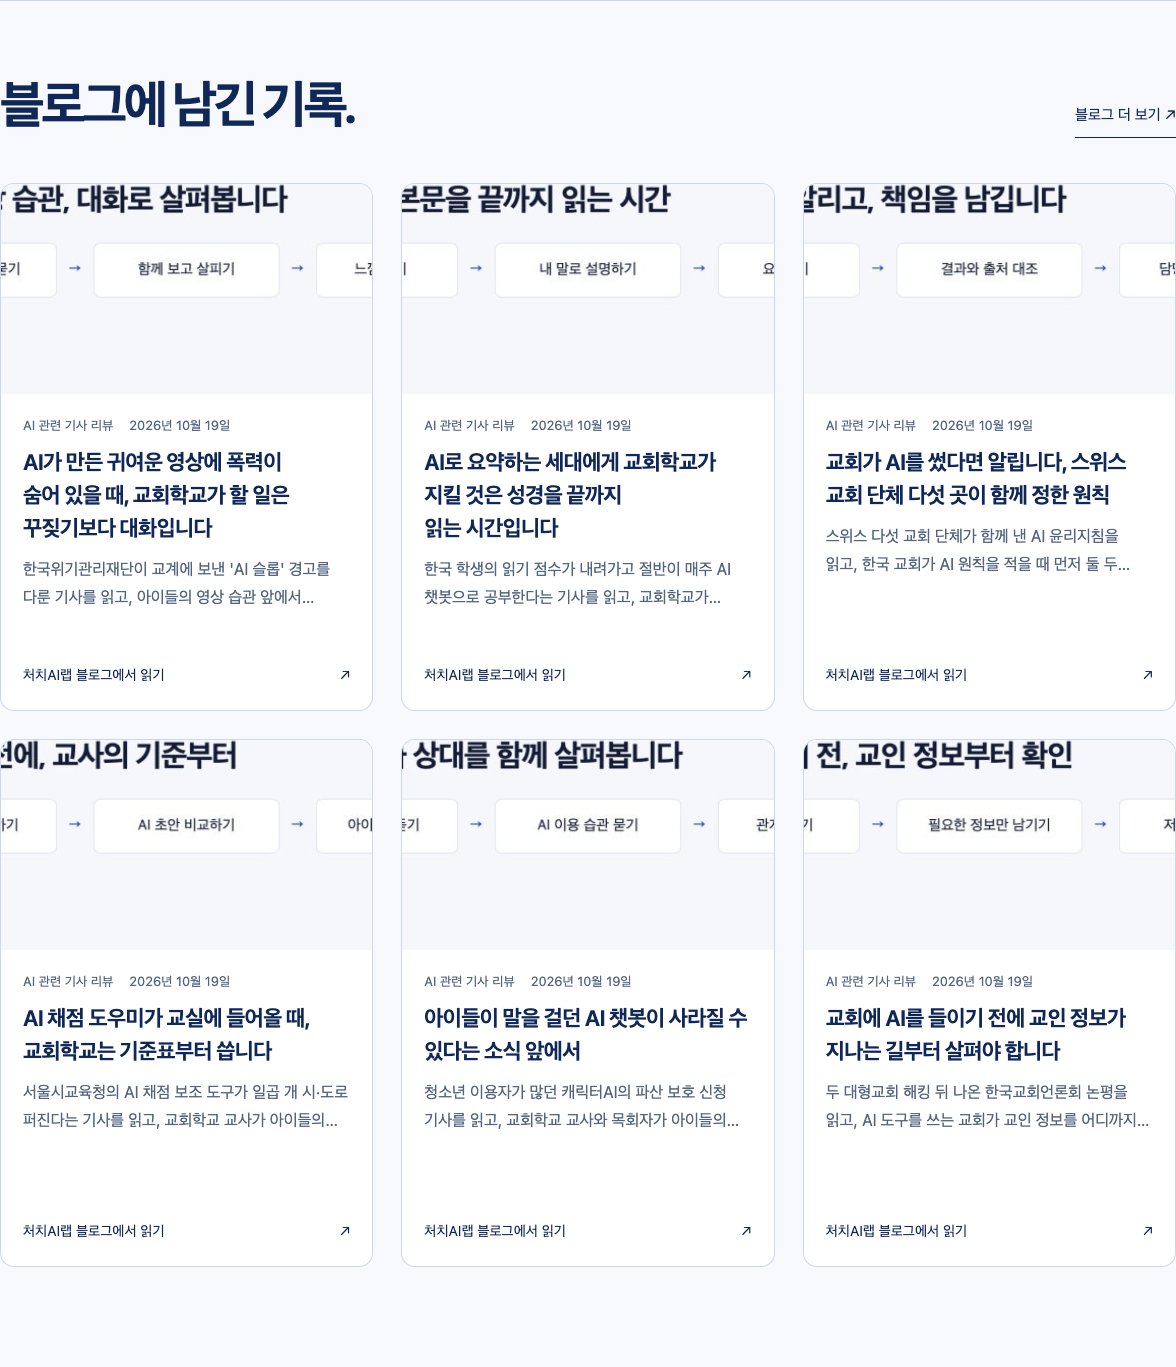
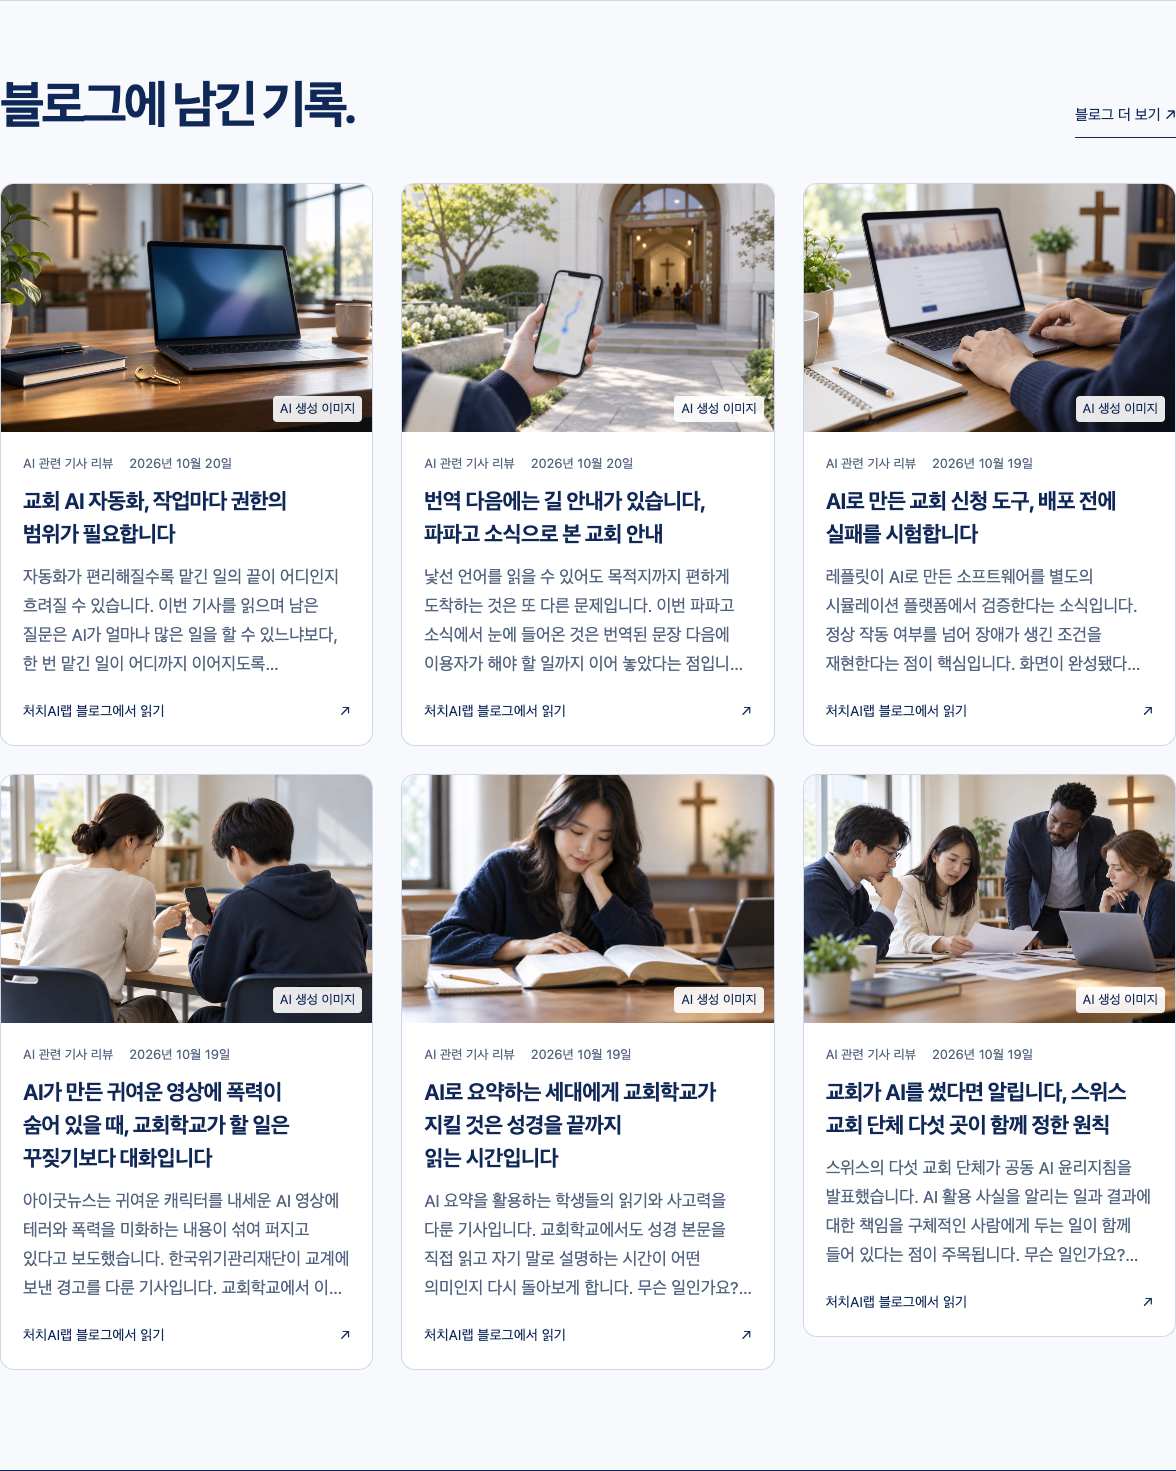
Compact recent post cards and add curated photorealistic covers

diff --git a/src/assets/motion-demo.css b/src/assets/motion-demo.css
@@ -86,18 +86,19 @@
 .motion-demo .studio-intro .title-line>span{animation:none!important;transform:none!important}
 
 /* Naver feed: image-led posts retain the shared Studio palette and type. */
-.blog-grid{display:grid;grid-template-columns:repeat(3,minmax(0,1fr));gap:28px}
-.blog-card{aspect-ratio:210 / 297;container-type:inline-size;min-width:0;background:var(--paper);border:1px solid var(--line);border-radius:14px;overflow:hidden}
-.blog-card>a{display:grid;grid-template-rows:minmax(0,2fr) minmax(0,3fr);height:100%;min-height:0;color:var(--ink);text-decoration:none}
+.blog-grid{display:grid;grid-template-columns:repeat(3,minmax(0,1fr));align-items:start;gap:28px}
+.blog-card{container-type:inline-size;min-width:0;background:var(--paper);border:1px solid var(--line);border-radius:14px;overflow:hidden}
+.blog-card>a{display:block;color:var(--ink);text-decoration:none}
 .blog-card>a:focus-visible{outline:3px solid var(--action);outline-offset:-4px}
-.blog-cover{min-height:0;background:var(--mint);overflow:hidden}
+.blog-cover{aspect-ratio:3 / 2;background:var(--mint);overflow:hidden;position:relative}
 .blog-cover img{display:block;width:100%;height:100%;object-fit:cover;object-position:center;transition:transform .25s ease-out}
 .blog-card>a:hover .blog-cover img{transform:scale(1.025)}
-.blog-card-copy{min-height:0;min-width:0;padding:22px;display:grid;grid-template-rows:auto auto minmax(0,1fr) auto;gap:10px}
+.blog-card-copy{min-width:0;padding:22px;display:grid;gap:12px}
 .blog-meta{display:flex;flex-wrap:wrap;gap:6px 16px;font-size:13px;color:var(--muted);line-height:1.5}
-.motion-demo .blog-card h3{font-size:22px;line-height:1.5;letter-spacing:-.025em;margin:0;word-break:keep-all;overflow-wrap:break-word;text-wrap:pretty;display:-webkit-box;-webkit-box-orient:vertical;-webkit-line-clamp:3;overflow:hidden}
-.blog-card-copy p{align-self:start;display:-webkit-box;-webkit-box-orient:vertical;-webkit-line-clamp:2;overflow:hidden;min-height:0;font-size:16px;line-height:1.75;color:var(--muted);margin:0;word-break:keep-all;overflow-wrap:break-word;text-wrap:pretty}
-.blog-read{grid-row:4;display:flex;justify-content:space-between;gap:20px;margin-top:0;padding-top:0;font-size:14px}
+.motion-demo .blog-card h3{font-size:22px;line-height:1.5;letter-spacing:-.025em;margin:0;word-break:keep-all;overflow-wrap:break-word;text-wrap:pretty}
+.blog-card-copy p{display:-webkit-box;-webkit-box-orient:vertical;-webkit-line-clamp:4;overflow:hidden;font-size:17px;line-height:1.7;color:var(--muted);margin:0;word-break:keep-all;overflow-wrap:break-word;text-wrap:pretty}
+.blog-read{display:flex;justify-content:space-between;gap:20px;margin-top:8px;font-size:14px}
+.blog-image-label{position:absolute;right:10px;bottom:10px;padding:3px 7px;border-radius:4px;background:rgba(255,255,255,.9);color:var(--ink);font-size:13px;line-height:1.5}
 @media(max-width:1000px){.blog-grid{grid-template-columns:repeat(2,minmax(0,1fr));gap:22px}}
 @media(max-width:600px){.blog-grid{grid-template-columns:minmax(0,1fr);gap:28px}.blog-card-copy{padding:20px}.studio-posts .section-intro{align-items:start;gap:16px;flex-direction:column}}
 @media(prefers-reduced-motion:reduce){.blog-cover img{transition:none}.blog-card>a:hover .blog-cover img{transform:none}}
@@ -105,4 +106,4 @@
 /* Grid children may shrink when the reader enlarges Korean text. */
 .learning-steps>li{min-width:0;overflow-wrap:break-word}
 
-@container(max-width:320px){.blog-card-copy{padding:18px;gap:8px}.blog-card-copy p{display:none}}
+@container(max-width:320px){.blog-card-copy{padding:18px;gap:10px}}

diff --git a/scripts/sync-naver-blog.py b/scripts/sync-naver-blog.py
@@ -17,6 +17,7 @@ from urllib.request import Request, urlopen
 
 ROOT = Path(__file__).resolve().parents[1]
 OUTPUT = ROOT / 'src/_data/blogFeed.json'
+COVERS = ROOT / 'src/_data/blogCovers.json'
 
 class Content(HTMLParser):
     def __init__(self):
@@ -58,6 +59,7 @@ def cache_image(url, post):
     return '/media/blog-covers/'+name
 
 def main():
+    overrides = json.loads(COVERS.read_text()) if COVERS.exists() else {}
     source = Path(sys.argv[1]).read_bytes() if len(sys.argv)>1 else urlopen(Request('https://rss.blog.naver.com/church_ai_lab.xml', headers={'User-Agent':'ChurchAILab-PublicFeed/1.0'}), timeout=25).read()
     root = ET.fromstring(source)
     posts = []
@@ -72,10 +74,17 @@ def main():
         if not title: continue
         parser = Content(); parser.feed(html.unescape(item.findtext('description', '')))
         excerpt = re.sub(r'\s+', ' ', ''.join(parser.text)).strip().rstrip('.')
-        excerpt = excerpt[:110].rstrip() + ('…' if len(excerpt)>110 else '')
+        # Some older posts retain a plain source URL above their native link card.
+        excerpt = re.sub(r'https?://[^\s]+', '', excerpt).strip()
+        excerpt = excerpt[:240].rstrip() + ('…' if len(excerpt)>240 else '')
         post = dict(id=match[1],title=title,url=url,date=date.isoformat(),display_date=date.strftime('%Y-%m-%d'),category=' '.join(item.findtext('category','블로그').split()),excerpt=excerpt,image_alt=title+' 대표 이미지')
         remote_image = next((safe_image(x) for x in parser.images if safe_image(x)), None)
-        if remote_image:
+        curated = overrides.get(post['id'])
+        if curated and (ROOT / 'src' / curated['image'].lstrip('/')).is_file():
+            post['image'] = curated['image']
+            post['image_alt'] = curated['alt']
+            post['image_label'] = curated.get('label', '')
+        elif remote_image:
             try: post['image'] = cache_image(remote_image, post)
             except Exception as error:
                 print(f'Image unavailable for {post["id"]}; using topic cover: {error}', file=sys.stderr)

diff --git a/docs/blog-automation/card-photography.md b/docs/blog-automation/card-photography.md
@@ -1,0 +1,23 @@
+# 최근 글 카드 표지와 레이아웃 — 2026-10-20
+
+사용자 요청으로 A4 고정 높이를 해제하고 제목 전체, 요약 최대 4줄, 자연 높이 카드를 적용했습니다. 작은 화면에서도 요약을 숨기지 않습니다. 이미지 영역은 3:2이며 이미지 원본도 3:2입니다.
+
+`src/_data/blogCovers.json`은 글 ID별 직접 제작 표지의 원본입니다. RSS 동기화는 이 파일의 유효한 로컬 표지를 우선하며 자동 다운로드로 덮어쓰지 않습니다. 매칭되지 않는 글은 기존 RSS 대표 이미지를 사용합니다. 기사 사진을 그대로 재사용하지 않고 이번 6장은 모두 built-in image_gen으로 제작했습니다. 실제 사건·교회·인물 사진이 아니며 카드에는 ‘AI 생성 이미지’를 표시합니다. 원본 PNG는 Codex generated_images에 보관하고 사이트용 JPEG는 src/media/blog-covers/에 저장했습니다.
+
+## 생성 프롬프트
+
+첫 이미지:
+
+> Generate a photorealistic editorial photograph for a Korean church AI article card about limiting AI agent permissions. Wide landscape 3:2 composition, no text, no letters, no logos. A quiet modern church administration desk with a laptop showing only abstract unfocused shapes, a notebook, and a small physical key beside the laptop; soft natural window light, realistic materials, restrained deep navy and off-white, calm trustworthy atmosphere. The key and laptop are central within a wide safe crop. This is an illustrative conceptual photo, not evidence of an actual event. Save the image for use as a web thumbnail.
+
+나머지 5장은 다음 앞뒤 문장 사이에 각 장면 문장을 넣어 각각 생성했습니다.
+
+> Create one photorealistic editorial photograph, landscape 3:2, for a Korean church AI article thumbnail.
+
+- translation-arrival: A quiet welcoming Korean church entrance in daylight, a visitor's hand holding a smartphone with an entirely blurred nonlegible map, doorway and walkway in the background. Theme: translation connected to finding one's destination.
+- registration-testing: Close editorial photograph of a laptop and a person's hands checking a simple website form beside a notebook on a church office desk. Screen softly out of focus, no readable interface. Theme: carefully testing a church event registration tool.
+- teacher-conversation: A Korean adult teacher and teenager seen from behind at a bright classroom table, discussing a smartphone together, warm attentive body language, neutral screen with no visible content. Theme: dialogue about AI-generated short videos, no fear or violence.
+- sustained-reading: Open Bible with unreadable softly blurred pages on a wooden classroom table, a pencil and notebook, a softly out-of-focus tablet set aside. Theme: sustained reading rather than AI summaries.
+- transparent-ai: A small diverse group of adult church staff at a bright meeting table reviewing printed pages and a laptop, side-view candid editorial composition, all screens and writing unreadable. Theme: responsibility and transparency about using AI.
+
+> Soft natural light, realistic human anatomy and materials, understated off-white and navy surroundings, calm respectful mood, main subjects centered for a wide crop. No text, no letters, no logos, no diagrams, no watermark. Illustrative staged image, not documentation of an actual event.

diff --git a/docs/blog-automation/article-review.md b/docs/blog-automation/article-review.md
@@ -55,3 +55,9 @@
 - ‘무슨 일인가요?’, ‘기사에서 어떤 소식이 나왔나요?’ 등 본문의 기사 설명 절은 누가·언제·무엇을 했는지와 구체적인 과정·수치·발언·맥락을 설명합니다. 상단 리뷰에서 밝힌 감상이나 평가를 다시 쓰지 않습니다.
 - 문장이 달라도 같은 정보를 되풀이하면 중복으로 판단합니다. 상단 리뷰와 기사 설명 절을 나란히 읽고, 겹치는 사실·주장·표현은 한 곳에만 남깁니다. 이해에 필요한 주체나 핵심 용어의 재등장은 허용하되 같은 소식을 두 번 소개하지 않습니다.
 - 최종 copy-editing 검수에 ‘상단 리뷰와 첫 기사 설명 문단의 의미 중복 확인’을 포함합니다. 중복을 피하려고 새로운 사실이나 경험을 지어내거나 불필요한 행동 유도 문장을 덧붙이지 않습니다.
+
+## 홈페이지 카드 이미지 (2026-10-20 최신 요청)
+
+- 새 기사 리뷰 대표 이미지는 주제에 맞는 실사 스타일 생성 이미지를 우선합니다. 기사 사진을 사용하려면 해당 이미지의 재사용 허가·라이선스를 실제 확인하고 출처를 남깁니다. 단순 기사 링크 카드의 사진과 직접 복제한 사진은 구분합니다.
+- 대표 이미지에 긴 제목이나 작은 도식을 넣지 않습니다. 도식이 필요하면 본문의 설명 위치에 별도로 둡니다. 실제 사건·인물·교회 사진처럼 오해하지 않도록 생성 이미지임을 설명합니다.
+- 홈페이지 전용 표지를 만들면 src/media/blog-covers/에 저장하고 src/_data/blogCovers.json에 해당 글 ID와 파일·설명·생성 표시를 등록합니다. 기존 블로그 글을 불필요하게 다시 편집하지 않습니다.
